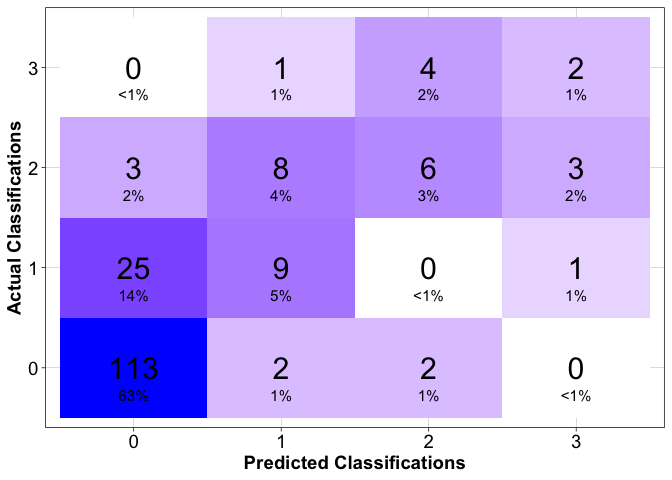
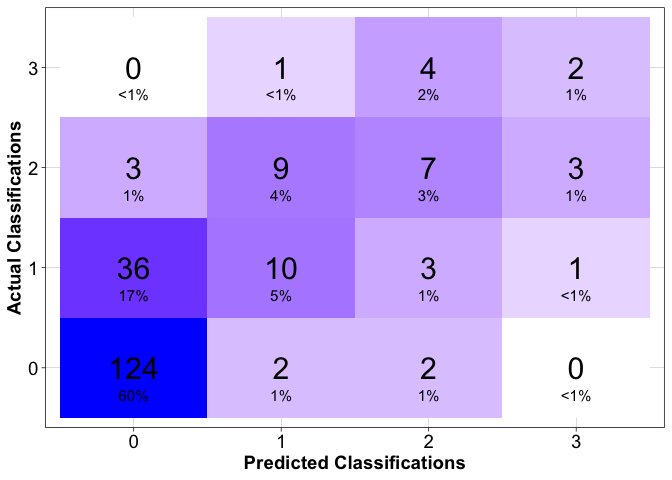
Updated readme with current results; added closure-level accuracy

diff --git a/README.md b/README.md
@@ -72,7 +72,7 @@ predictions <- read_forecast(year = "2024") |>
 glimpse(predictions)
 ```
 
-    ## Rows: 228
+    ## Rows: 258
     ## Columns: 19
     ## $ version             <chr> "v0.3.0", "v0.3.0", "v0.3.0", "v0.3.0", "v0.3.0", …
     ## $ ensemble_n          <dbl> 10, 10, 10, 10, 10, 10, 10, 10, 10, 10, 10, 10, 10…
@@ -107,7 +107,7 @@ glimpse(predictions)
     ## # A tibble: 1 × 1
     ##   accuracy
     ##      <dbl>
-    ## 1    0.726
+    ## 1    0.691
 
 #### Closure-level (Class 3) Predictions
 
@@ -125,10 +125,10 @@ glimpse(predictions)
 
 <!-- -->
 
-    ## # A tibble: 1 × 7
-    ##      tp    fp    tn    fn precision sensitivity specificity
-    ##   <int> <int> <int> <int>     <dbl>       <dbl>       <dbl>
-    ## 1     2     4   168     5     0.333       0.286       0.977
+    ## # A tibble: 1 × 8
+    ##      tp    fp    tn    fn cl_accuracy precision sensitivity specificity
+    ##   <int> <int> <int> <int>       <dbl>     <dbl>       <dbl>       <dbl>
+    ## 1     2     4   196     5       0.957     0.333       0.286        0.98
 
 ## 2023 Season Results
 
@@ -169,10 +169,10 @@ predictions <- read_forecast(year = "2023")
 
 <!-- -->
 
-    ## # A tibble: 1 × 7
-    ##      tp    fp    tn    fn precision sensitivity specificity
-    ##   <int> <int> <int> <int>     <dbl>       <dbl>       <dbl>
-    ## 1     0     0   554     0       NaN         NaN           1
+    ## # A tibble: 1 × 8
+    ##      tp    fp    tn    fn cl_accuracy precision sensitivity specificity
+    ##   <int> <int> <int> <int>       <dbl>     <dbl>       <dbl>       <dbl>
+    ## 1     0     0   554     0           1       NaN         NaN           1
 
 ## 2022 Season Results
 
@@ -209,10 +209,10 @@ predictions <- read_forecast(year = "2023")
 
 <!-- -->
 
-    ## # A tibble: 1 × 7
-    ##      tp    fp    tn    fn precision sensitivity specificity
-    ##   <int> <int> <int> <int>     <dbl>       <dbl>       <dbl>
-    ## 1    16    20   603    12     0.444       0.571       0.968
+    ## # A tibble: 1 × 8
+    ##      tp    fp    tn    fn cl_accuracy precision sensitivity specificity
+    ##   <int> <int> <int> <int>       <dbl>     <dbl>       <dbl>       <dbl>
+    ## 1    16    20   603    12       0.951     0.444       0.571       0.968
 
 ### Timing of initial closure-level predictions
 
@@ -253,10 +253,10 @@ predictions <- read_forecast(year = "2023")
 
 <!-- -->
 
-    ## # A tibble: 1 × 7
-    ##      tp    fp    tn    fn precision sensitivity specificity
-    ##   <int> <int> <int> <int>     <dbl>       <dbl>       <dbl>
-    ## 1     2     3   463     0       0.4           1       0.994
+    ## # A tibble: 1 × 8
+    ##      tp    fp    tn    fn cl_accuracy precision sensitivity specificity
+    ##   <int> <int> <int> <int>       <dbl>     <dbl>       <dbl>       <dbl>
+    ## 1     2     3   463     0       0.994       0.4           1       0.994
 
 ### Closure-level accuracy
 
@@ -272,4 +272,4 @@ predictions <- read_forecast(year = "2023")
 
 ### Last Updated
 
-    ## [1] "2024-06-28"
+    ## [1] "2024-07-03"
